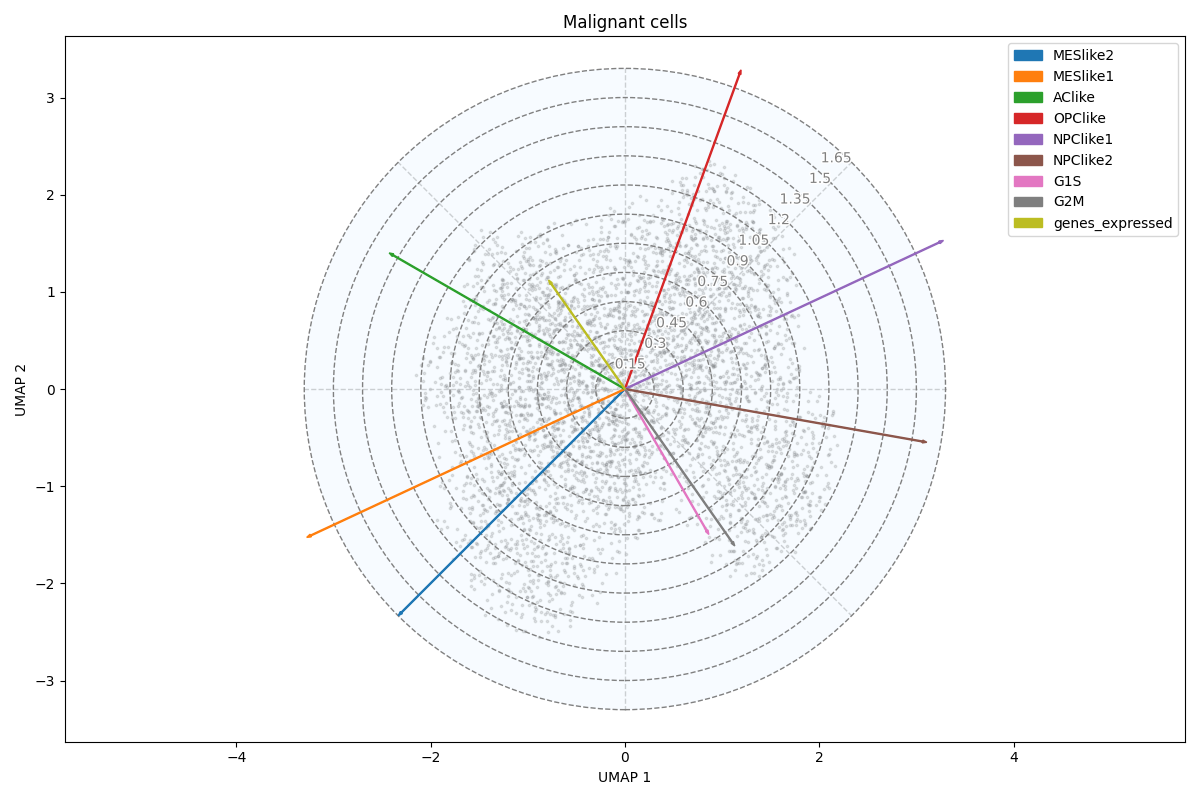
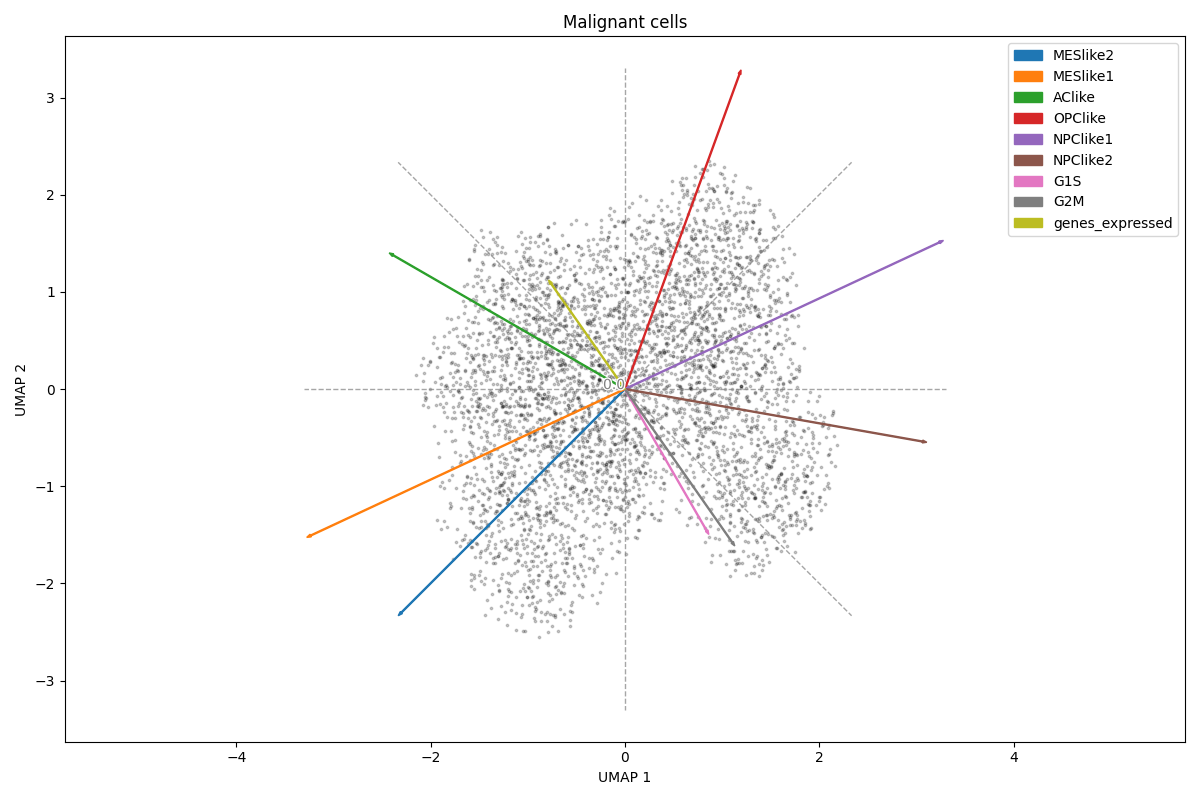
Fix between

Changed region(s): [[0.3392, 0.1875, 0.7092, 0.7812], [0.7092, 0.4688, 0.74, 0.5]]

diff --git a/src/plot.py b/src/plot.py
@@ -238,7 +238,6 @@ class NonLinearClock():
     def _make_circles(self, ax, num_circles, annotate, x_center, y_center, radius, c_max, c_min):
         for i in list(range(1, num_circles))[::-1]:
             radius_circle = round(i * annotate, 1)
-
             if i == num_circles-1:
                 circle = patches.Circle((x_center, y_center), radius=radius_circle, edgecolor='gray', linewidth=1, linestyle="--", facecolor=(0.941, 0.973, 1.0, 0.5), fill=True, zorder=10) 
             else:
@@ -255,7 +254,6 @@ class NonLinearClock():
     def _add_circles(self, ax, num_circles, annotate, x_center, y_center, radius, c_min, c_max):
         for i in list(range(1, num_circles))[::-1]:
             radius_circle = round(i * annotate, 1)
-
             if i == num_circles-1:
                 circle = patches.Circle((x_center, y_center), radius=radius_circle, edgecolor='gray', linewidth=1, linestyle="--", facecolor=(0.941, 0.973, 1.0, 0.5), fill=True, zorder=10) 
             else:
@@ -293,6 +291,7 @@ class NonLinearClock():
         else:
             self._add_windrose(ax, coefs_scaled, radius, x_center, y_center, colors, labels)
         
+        # num_circles - one circle per annotation
         self._add_circles(ax, num_circles, annotate, x_center, y_center, radius, c_min, c_max)
 
         self._finish_plot(plot_title=plot_title, save_path=save_path)
@@ -311,7 +310,7 @@ class NonLinearClock():
     
     def _get_plot(self, plt, data, draw_hulls: bool = True):
         fig, ax = plt.subplots(1, figsize=(12, 8))
-        alpha = 0.2
+        alpha = 0.1
 
         if draw_hulls:
             self._draw_clusters(ax, data, alpha)
@@ -472,7 +471,7 @@ class NonLinearClock():
     def _plot_between(self, data, cl_means, mst, coefs, labels, angles, plot_title: str, save_path: str = ""):
         fig, ax = plt.subplots(1, figsize=(12, 8))
         colors = list(mcolors.TABLEAU_COLORS.keys())
-        alpha = 0.2
+        alpha = 0.1
 
         # Scale coefficients
         radius = np.abs(coefs).max()
@@ -489,19 +488,18 @@ class NonLinearClock():
             plt.plot((p_a[0], p_b[0]), (p_a[1], p_b[1]), c='gray', linestyle="--", alpha=0.7, linewidth=1, zorder=10)
         
         # Add arrows
-        arrows_ind = np.argmax(np.abs(coefs_scaled), axis=0)
         arrows = []
-
         for j in range(len(mst)):
-            for i in range(coefs_scaled.shape[1]):
+            for i in abs(coefs_scaled[j]).argsort(axis=None)[::-1]:
                 a = math.radians(angles[j])
 
-                # Plot contributions
-                x_c, y_c = math.cos(a) * coefs_scaled[j, i], math.sin(a) * coefs_scaled[j, i]
-                col = colors[i]
-                lbl = labels[i]
+                if coefs_scaled[j, i] != 0:
+                    # Plot contributions
+                    x_c, y_c = math.cos(a) * coefs_scaled[j, i], math.sin(a) * coefs_scaled[j, i]
+                    col = colors[i]
+                    lbl = labels[i]
 
-                arrows.append(plt.arrow(cl_means[mst[j][0]][0], cl_means[mst[j][0]][1], x_c, y_c, width=0.01, color=col, label=lbl, zorder=15))
+                    arrows.append(plt.arrow(cl_means[mst[j][0]][0], cl_means[mst[j][0]][1], x_c, y_c, width=0.04, color=col, label=lbl, zorder=15))
 
         plt.legend(arrows, labels)
         self._finish_plot(plot_title=plot_title, save_path=save_path)
@@ -528,13 +526,16 @@ class NonLinearClock():
 
         self.mst_proj = np.array(mst_proj).T
         coefs, _, is_significant = self._get_importance(self.high_dim_data.to_numpy(), self.mst_proj, univar=univar_importance, significance=feature_significance)
-        
+
         if standartize_coef:
             sign_coef = coefs / np.abs(coefs)
             coefs = (coefs - coefs.mean() * sign_coef) / coefs.std() #FIXME
             if np.isnan(coefs).any():
                 coefs = np.nan_to_num(coefs)
                 warnings.warn("NaNs were introduced after standartizing coefficients and were replaced by 0.")
+        
+        for c, is_s in zip(coefs, is_significant):
+            c[is_s == False] = 0
 
         self._plot_between(self.low_dim_data, cl_means, mst, coefs, self.observations, angles, plot_title=plot_title, save_path=save_path)
 

diff --git a/test/test_neftel.py b/test/test_neftel.py
@@ -93,9 +93,9 @@ def test_between():
 
     plot_inst = NonLinearClock(X_new, obs, standard_embedding, labels, "UMAP")
     plot_inst.plot_clocks(plot_title="Malignant cells", 
-                          plot_big_clock=False, 
-                          plot_small_clock=True,
-                          plot_between_cluster=False,
+                          plot_big_clock=True, 
+                          plot_small_clock=False,
+                          plot_between_cluster=True,
                           standartize_data=True,
                           standartize_coef=True,
                           biggest_arrow_method=True,
